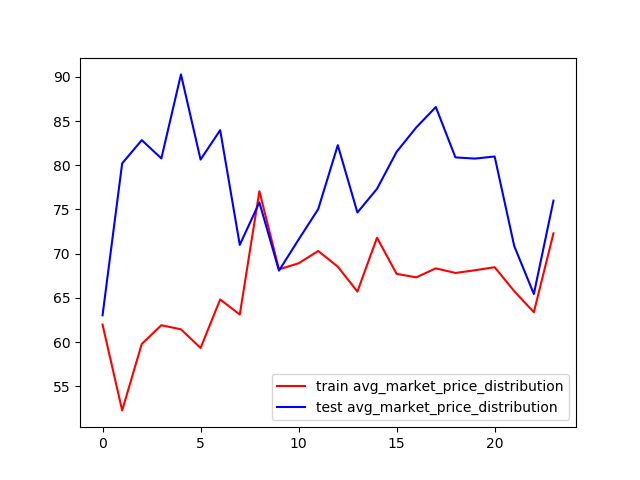
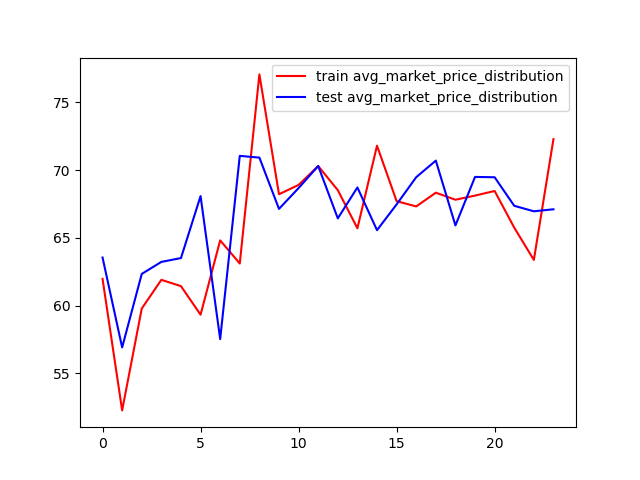
修改数据处理的测试为20130612

diff --git a/src/feature_engineering/data_to_csv.py b/src/feature_engineering/data_to_csv.py
@@ -52,9 +52,16 @@ print(len(one_day_test_data), one_day_test_data.iloc[:, 0].sum(), one_day_test_d
 # one_day_test_data = test_data[test_data.iloc[:, 1].isin([4])] # 选择特定值所在的行
 # one_day_test_data.to_csv('../../data/20130613_test_data.csv', index=None)
 
-# train_data = pd.read_csv('../../sample/20130606_train_sample.csv', header=None).drop(0, axis=0)
-# train_data.iloc[:, [0, 23]] = train_data.iloc[:, [0, 23]].astype(int) # 类型强制转换
-# print(len(train_data), train_data.iloc[:, 0].sum(), train_data.iloc[:, 23].sum())
-# test_data = pd.read_csv('../../sample/20130613_test_sample.csv', header=None).drop(0, axis=0)
-# test_data.iloc[:, [0, 23]] = test_data.iloc[:, [0, 23]].astype(int)
-# print(len(test_data), test_data.iloc[:, 0].sum(), test_data.iloc[:, 23].sum())
+train_data = pd.read_csv('../../data/20130606_train_data.csv', header=None).drop(0, axis=0)
+train_data.iloc[:, [0, 23]] = train_data.iloc[:, [0, 23]].astype(int) # 类型强制转换
+print(len(train_data), train_data.iloc[:, 0].sum(), train_data.iloc[:, 23].sum())
+test_data = pd.read_csv('../../data/20130612_test_data.csv', header=None).drop(0, axis=0)
+test_data.iloc[:, [0, 23]] = test_data.iloc[:, [0, 23]].astype(int)
+print(len(test_data), test_data.iloc[:, 0].sum(), test_data.iloc[:, 23].sum())
+
+train_data = pd.read_csv('../../sample/20130606_train_sample.csv', header=None).drop(0, axis=0)
+train_data.iloc[:, [0, 23]] = train_data.iloc[:, [0, 23]].astype(int) # 类型强制转换
+print(len(train_data), train_data.iloc[:, 0].sum(), train_data.iloc[:, 23].sum())
+test_data = pd.read_csv('../../sample/20130613_test_sample.csv', header=None).drop(0, axis=0)
+test_data.iloc[:, [0, 23]] = test_data.iloc[:, [0, 23]].astype(int)
+print(len(test_data), test_data.iloc[:, 0].sum(), test_data.iloc[:, 23].sum())

diff --git a/src/feature_engineering/down_sample.py b/src/feature_engineering/down_sample.py
@@ -49,10 +49,10 @@ with open( '../../sample/20130606_train_sample.csv', 'w') as fo:
 # print(c, n, p+nn, p, nn, (p+nn)/c, nn / n, p / nn)
 print('训练数据负采样完成')
 
-# 20130613一天
+# 20130612一天
 def getTestSampleRate():
-    click = 307  # 20130607一天
-    total = 478109  # 20130607一天
+    click = 356  # 20130612一天
+    total = 447493  # 20130612一天
     rate = click / (CLICK_RATE * (total - click))
     # 原始数据中的点击和曝光总数
     print('clicks: {0} impressions: {1}\n'.format(click, total))
@@ -64,9 +64,9 @@ def getTestSampleRate():
 # 获取训练样本
 test_sample_rate = getTestSampleRate()
 
-# 获取测试样本,20130613一天
-with open( '../../sample/20130607_test_sample.csv', 'w') as fo:
-    fi = open('../../data/20130607_test_data.csv')
+# 获取测试样本,20130612一天
+with open( '../../sample/20130612_test_sample.csv', 'w') as fo:
+    fi = open('../../data/20130612_test_data.csv')
     p = 0 # 原始正样本
     n = 0 # 原始负样本
     nn = 0 # 剩余的负样本
@@ -79,7 +79,7 @@ with open( '../../sample/20130607_test_sample.csv', 'w') as fo:
             label = line.split(',')[0] # 是否点击标签
             if int(label) == 0:
                 n += 1
-                if random.randint(0, 478109) <= 478109 * test_sample_rate:  # down sample, 选择对应数据量的负样本
+                if random.randint(0, 447493) <= 447493 * test_sample_rate:  # down sample, 选择对应数据量的负样本
                     fo.write(line)
                     nn += 1
             else:

diff --git a/src/time_precess/day_hour_process.py b/src/time_precess/day_hour_process.py
@@ -24,7 +24,7 @@ ctr_price_df = pd.DataFrame(data=ctr_price_data)
 ctr_price_df.to_csv('../../transform_precess/20130606_train_ctr_clk.csv')
 
 # 测试集
-test_data = pd.read_csv('../../sample/20130613_test_sample.csv', header=None).drop(0, axis=0)
+test_data = pd.read_csv('../../sample/20130612_test_sample.csv', header=None).drop(0, axis=0)
 test_data.iloc[:, [0, 2]] = test_data.iloc[:, [0, 2]].astype(int) # 类型强制转换
 test_ctr = pd.read_csv('../../data/fm/test_ctr_pred.csv', header=None).drop(0, axis=0)
 
@@ -43,4 +43,4 @@ price_data = test_data[clk_is_one_index].iloc[:, 23]
 ctr_data = test_ctr[clk_is_one_index].iloc[:, 1]
 ctr_price_data = {'ctr': ctr_data, 'price': price_data}
 ctr_price_df = pd.DataFrame(data=ctr_price_data)
-ctr_price_df.to_csv('../../transform_precess/20130613_test_ctr_clk.csv')
+ctr_price_df.to_csv('../../transform_precess/20130612_test_ctr_clk.csv')

diff --git a/src/time_precess/hour_clks.py b/src/time_precess/hour_clks.py
@@ -25,7 +25,7 @@ test_hour_clks = pd.read_csv('../../transform_precess/test_hour_select_result.cs
 
 avg_ctrs = []
 # 每个时间段的平均点击率
-test_date_data = pd.read_csv('../../sample/20130613_test_sample.csv', header=None).drop(0, axis=0)
+test_date_data = pd.read_csv('../../sample/20130612_test_sample.csv', header=None).drop(0, axis=0)
 test_date_data.iloc[:, 2] = test_date_data.iloc[:, 2].astype(int) # 按列强制类型转换
 for i in range(24):
     hour_imps = test_date_data[test_date_data.iloc[:, 2].isin([i])]

diff --git a/src/time_precess/time-select.py b/src/time_precess/time-select.py
@@ -56,7 +56,7 @@ hour_df.iloc[:, :] = hour_df_index[:, :]
 hour_df.to_csv('../../transform_precess/hour_select_result.csv', header=None, index=None)
 
 # 测试集下
-data = pd.read_csv('../../sample/20130613_test_sample.csv', header=None).drop(0, axis=0)
+data = pd.read_csv('../../sample/20130612_test_sample.csv', header=None).drop(0, axis=0)
 
 day_array = []
 hour_array = []

diff --git a/src/feature_engineering/data2fm.py b/src/feature_engineering/data2fm.py
@@ -6,7 +6,7 @@ from datetime import datetime
 import pandas as pd
 
 train_path = '../../sample/20130606_train_sample.csv'
-test_path = '../../sample/20130613_test_sample.csv'
+test_path = '../../sample/20130612_test_sample.csv'
 train_fm = '../../data/fm/train.txt'
 test_fm = '../../data/fm/test.txt'
 vali_path = '../../data/fm/validation.csv'
